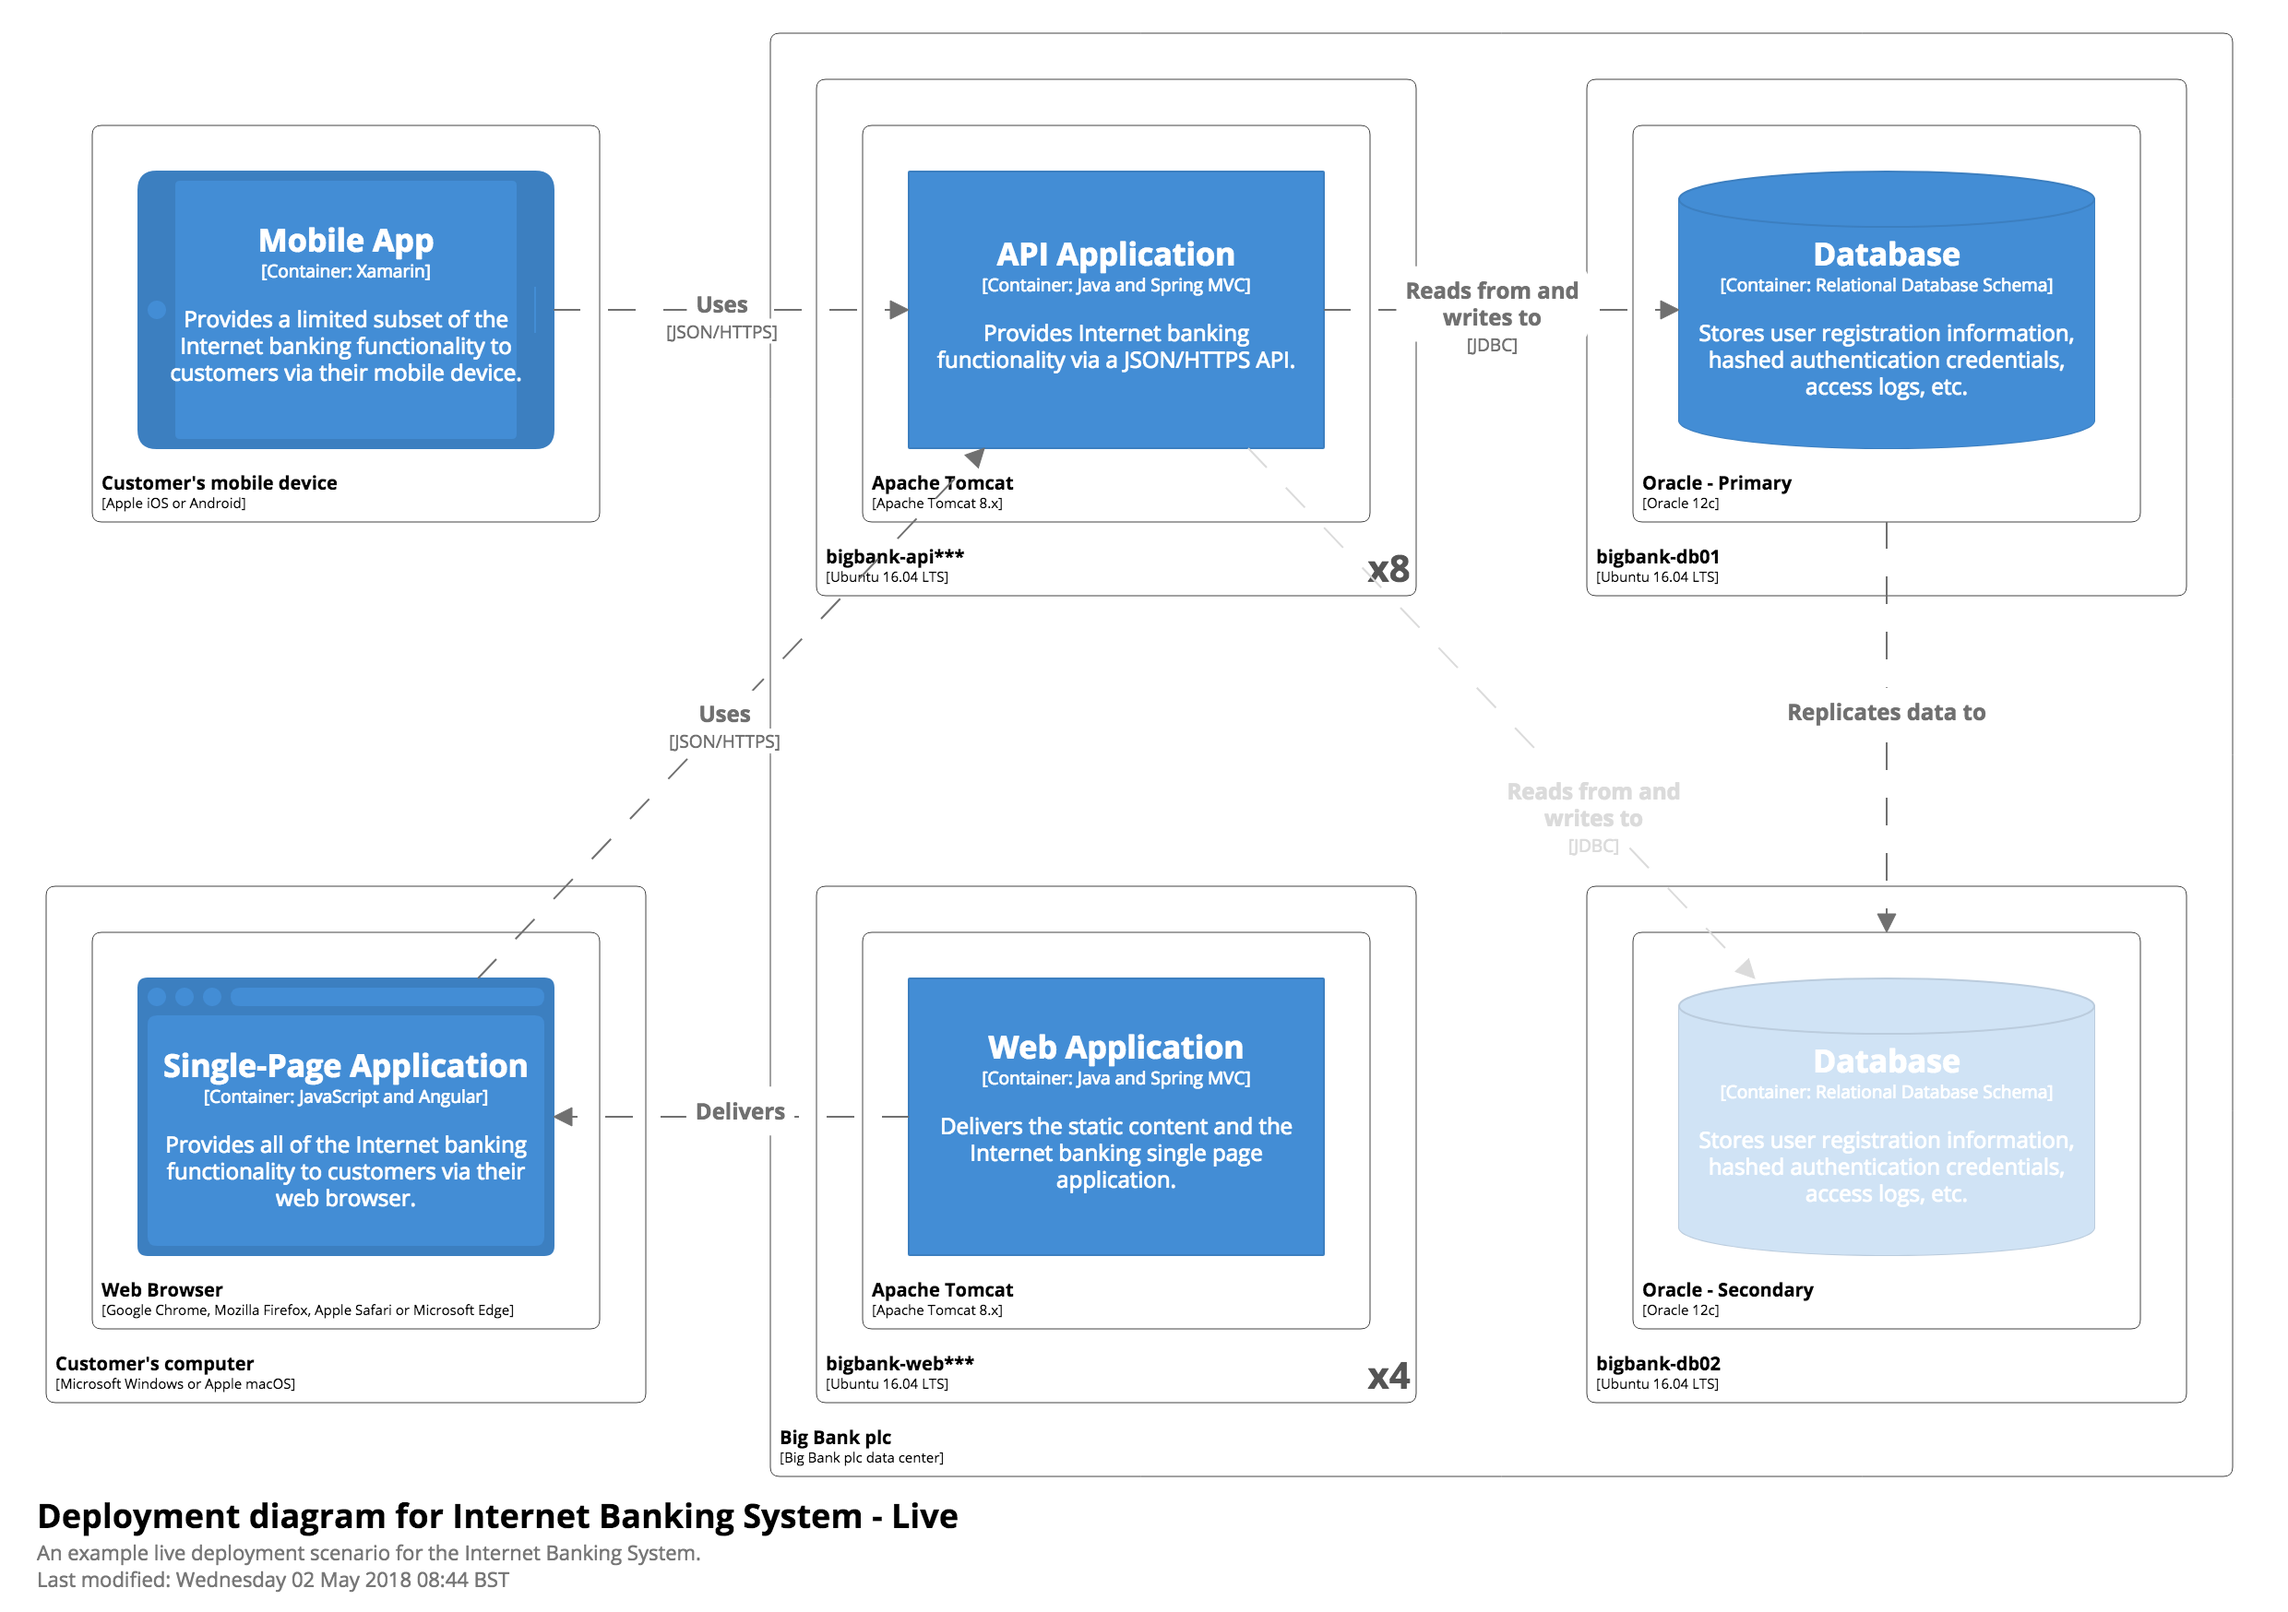
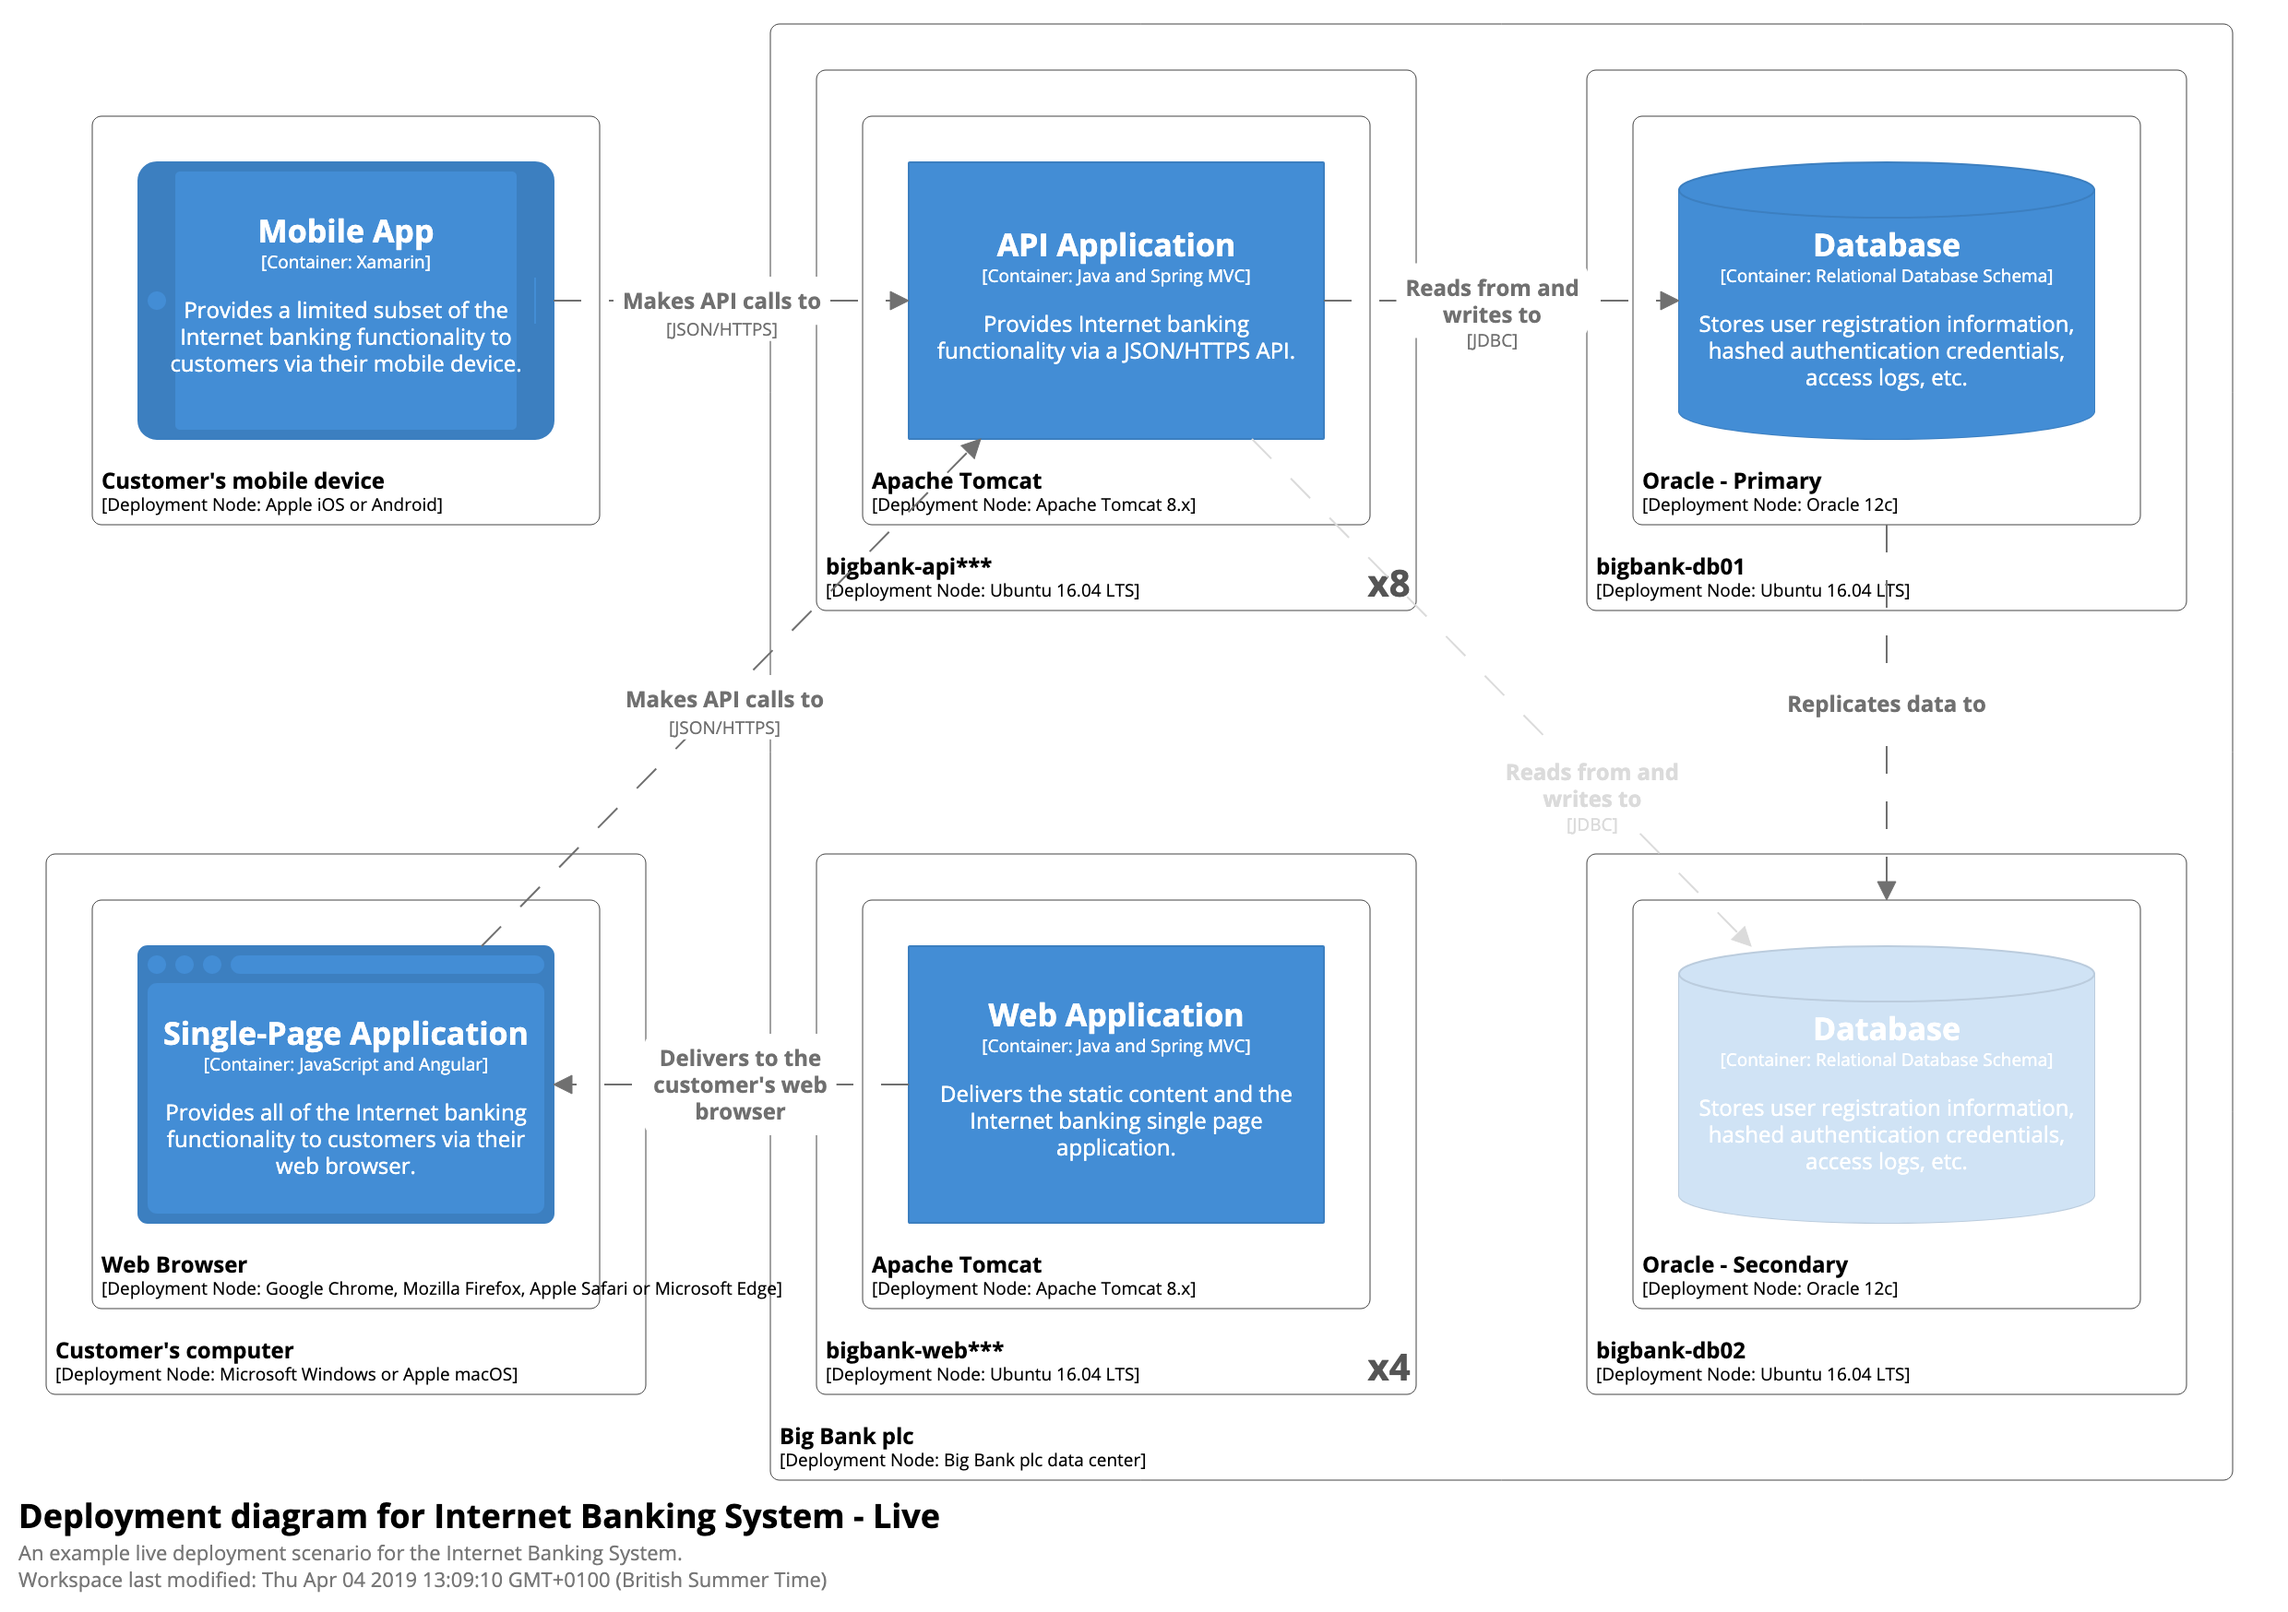
Added more words to some of the relationships, instead of just "Uses". Also updated the guidance accordingly.

diff --git a/index.html b/index.html
@@ -666,7 +666,7 @@
                         <h4>Relationships</h4>
                         <ul style="line-height: 150%">
                                 <li>Every line should represent a unidirectional relationship.</li>
-                                <li>Every line should be labelled, the label being consistent with the direction and intent of the relationship (e.g. dependency or data flow).</li>
+                                <li>Every line should be labelled, the label being consistent with the direction and intent of the relationship (e.g. dependency or data flow). Try to be as specific as possible with the label, ideally avoiding single words like, "Uses".</li>
                                 <li>Relationships between containers (typically these represent inter-process communication) should have a technology/protocol explicitly labelled.</li>
                             </ul>
                         </div>
